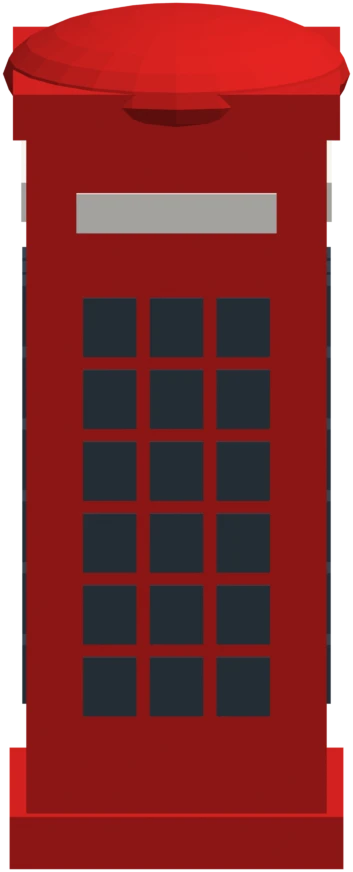
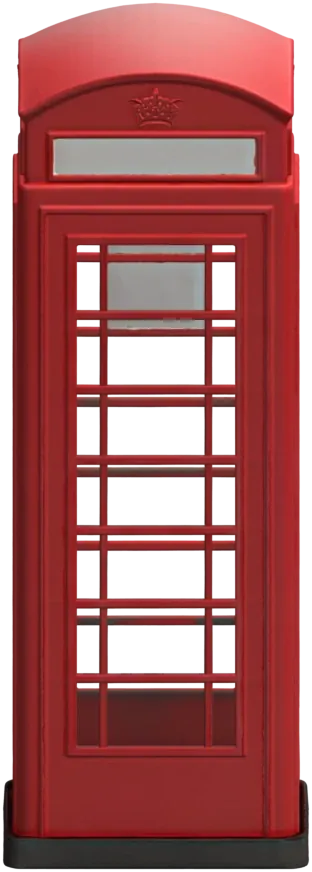
Légende (canal de test) : torii, tōrō, terrasse, réverbère, bouche d'incendie, pillar box et cabine K6 refaits dans Tripo
Les sept derniers objets culturels encore dessinés en formes simples dans
Blender sont désormais des modèles Tripo HD, rendus de face comme les autres.
Plus aucun objet de bord de piste de la Légende n'est en blocs Blender.

diff --git a/tools/blender/decors/legende_pieces.py b/tools/blender/decors/legende_pieces.py
@@ -36,8 +36,10 @@
 # Le drac, le taxi, le bus (09/10), le banc trencadis (10/10), le kiosque,
 # le jerk, le simit, le hot-dog et la cesme, puis le baobab, le zellige, le
 # sakura, la colonne Morris, la fontaine Wallace, la guerite, le fanous, l'etal
-# et les tambours (15/10) ne sont plus modelises ici :
+# et les tambours (15/10), puis le torii, le toro, la terrasse, le reverbere,
+# la borne, la boite et la cabine (16/10) ne sont plus modelises ici :
 # ce sont des modeles Tripo, rendus de la meme facon (voir TRIPO plus bas).
+# Les fonctions ci-dessous restent la doublure si un modele Tripo manque.
 # -----------------------------------------------------------------------
 
 import bpy
@@ -614,6 +616,13 @@ TRIPO = {
     'fanous': dict(source='fanous-tripo.glb', rot=0.0, hauteur=2.69),
     'etal': dict(source='etal-tripo.glb', rot=270.0, hauteur=2.55),
     'tambours': dict(source='tambours-tripo.glb', rot=270.0, hauteur=1.04),
+    'torii': dict(source='torii-tripo.glb', rot=270.0, hauteur=5.0),
+    'toro': dict(source='toro-tripo.glb', rot=270.0, hauteur=2.26),
+    'terrasse': dict(source='terrasse-tripo.glb', rot=270.0, hauteur=0.95),
+    'reverbere': dict(source='reverbere-tripo.glb', rot=270.0, hauteur=4.1),
+    'borne': dict(source='borne-tripo.glb', rot=270.0, hauteur=0.87),
+    'boite': dict(source='boite-tripo.glb', rot=270.0, hauteur=1.61),
+    'cabine': dict(source='cabine-tripo.glb', rot=270.0, hauteur=2.52),
 }
 
 

diff --git a/src/assets/legende/decors/CREDITS.md b/src/assets/legende/decors/CREDITS.md
@@ -40,3 +40,4 @@ Hassan II (1993), Sagrada Família (en construction), Kinkaku-ji (reconstruit en
 | Baobab (Abuja), fontaine murale de zellige (Casablanca), cerisier en fleurs (Kyoto) | `baobab.webp`, `zellige.webp`, `sakura.webp` (15/10/2026) | images générées (Tripo, Nano Banana), modèles Tripo HD ; disque de terre retiré sous le baobab | — |
 | Colonne Morris et fontaine Wallace (Paris), guérite et garde (Londres) | `morris.webp`, `wallace.webp`, `garde.webp` (15/10/2026) | images générées (Tripo, Nano Banana), modèles Tripo HD ; affiches sans texte | — |
 | Fanous (Casablanca), étal sous parasol ankara et tambours parlants (Abuja) | `fanous.webp`, `etal.webp`, `tambours.webp` (15/10/2026) | images générées (Tripo, Nano Banana), modèles Tripo HD | — |
+| Torii et tōrō (Kyoto), terrasse de bistrot et réverbère (Paris), bouche d'incendie (New York), pillar box et cabine K6 (Londres) | `torii.webp`, `toro.webp`, `terrasse.webp`, `reverbere.webp`, `borne.webp`, `boite.webp`, `cabine.webp` (16/10/2026) | images générées (Tripo, Nano Banana), modèles Tripo HD ; sans texte ni chiffre royal | — |
